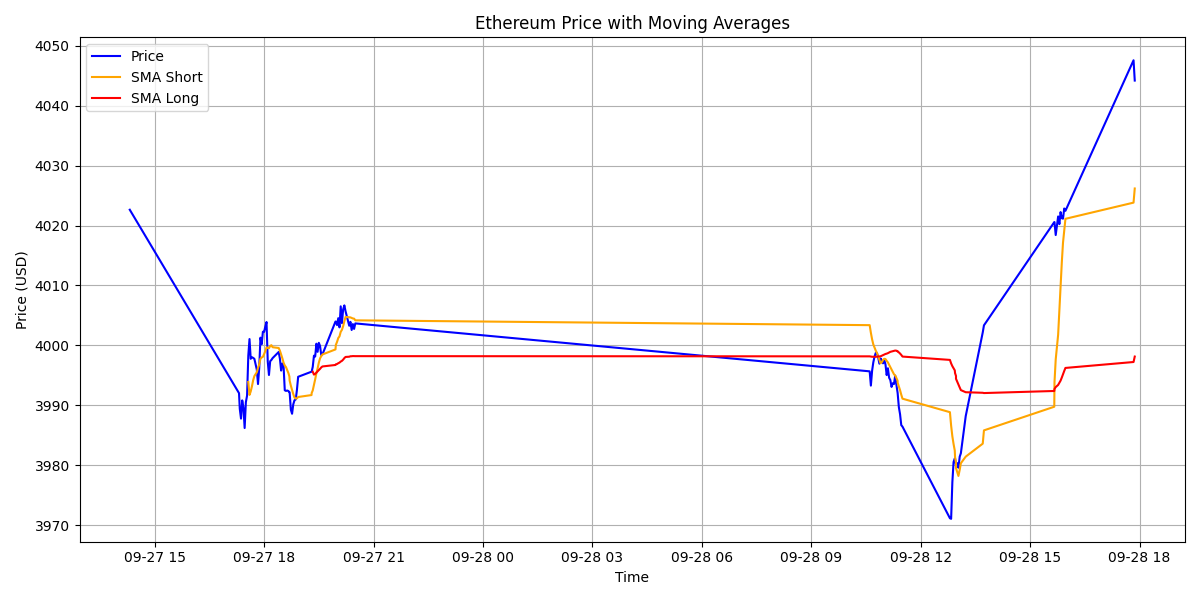
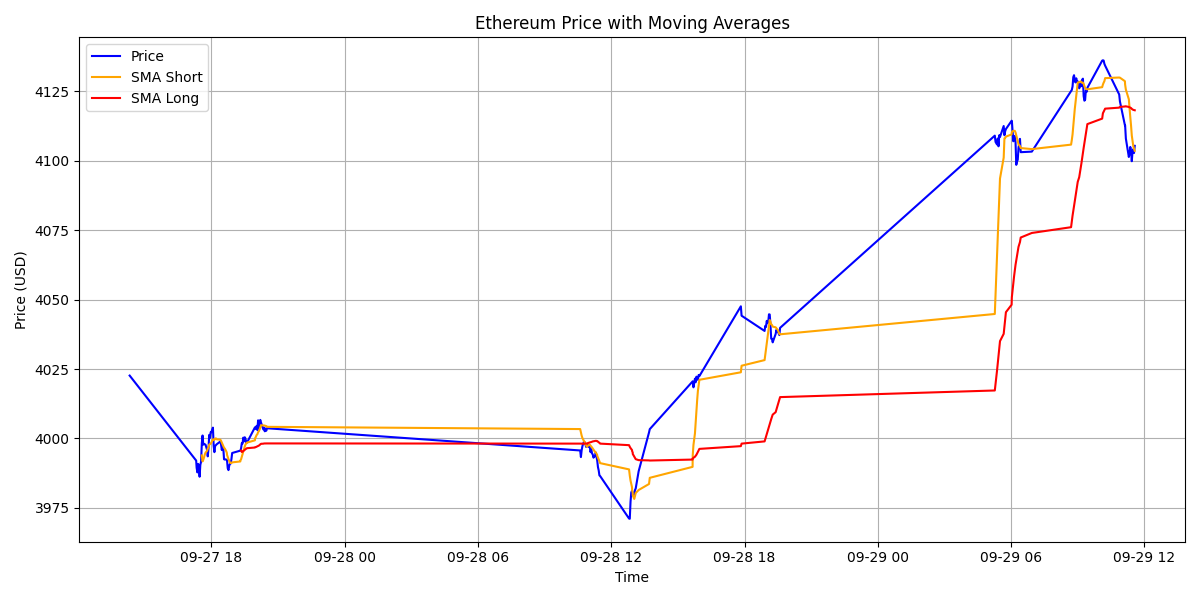
feat: add correlation analysis feature with heatmap and rolling correlation plots

diff --git a/analytics/correlation.py b/analytics/correlation.py
@@ -1,0 +1,86 @@
+import pandas as pd
+import matplotlib.pyplot as plt
+from fetch_data import fetch_latest_records
+import os
+
+def fetch_multi_coin_data(coins, limit=500, interval="2T"):
+    """Fetch last N records for multiple coins and align them by timestamp."""
+    dataframes = []
+    for coin in coins:
+        df = fetch_latest_records(coin, limit=limit)
+        if df is not None:
+            df = df[["timestamp", "price"]].rename(columns={"price": coin})
+            df = df.set_index("timestamp")
+            # Resample to common interval and forward-fill
+            df = df.resample(interval).ffill()
+            dataframes.append(df)
+    if not dataframes:
+        print("⚠ No data fetched for given coins")
+        return None
+    # Outer join, then forward-fill to ensure alignment
+    combined_df = pd.concat(dataframes, axis=1).ffill().dropna()
+    return combined_df
+
+def calculate_correlation(df: pd.DataFrame):
+    """Compute correlation matrix for the given coins."""
+    return df.corr()
+
+def plot_correlation_heatmap(corr_matrix, coins, save=True):
+    """Plot correlation heatmap."""
+    plt.figure(figsize=(6, 5))
+    plt.imshow(corr_matrix, cmap="coolwarm", interpolation="nearest")
+    plt.colorbar(label="Correlation Coefficient")
+    plt.xticks(range(len(coins)), coins, rotation=45)
+    plt.yticks(range(len(coins)), coins)
+    plt.title("Crypto Price Correlation")
+    plt.tight_layout()
+
+    if save:
+        os.makedirs("outputs", exist_ok=True)
+        file_path = "outputs/coin_correlation_heatmap.png"
+        plt.savefig(file_path)
+        print(f"📁 Saved: {file_path}")
+
+    plt.show()
+
+def plot_rolling_correlation(df: pd.DataFrame, pair, window=50, save=True):
+    """Plot rolling correlation between two coins."""
+    coin1, coin2 = pair
+    rolling_corr = df[coin1].rolling(window).corr(df[coin2])
+
+    plt.figure(figsize=(12, 6))
+    plt.plot(df.index, rolling_corr, label=f"{coin1} vs {coin2}")
+    plt.title(f"Rolling Correlation ({coin1} vs {coin2}) - Window={window}")
+    plt.xlabel("Time")
+    plt.ylabel("Correlation")
+    plt.ylim(-1, 1)
+    plt.legend()
+    plt.grid(True)
+    plt.tight_layout()
+
+    if save:
+        os.makedirs("outputs", exist_ok=True)
+        file_path = f"outputs/rolling_corr_{coin1}_{coin2}.png"
+        plt.savefig(file_path)
+        print(f"📁 Saved: {file_path}")
+
+    plt.show()
+
+if __name__ == "__main__":
+    coins = ["bitcoin", "ethereum", "matic-network"]
+    df = fetch_multi_coin_data(coins, limit=500)
+
+    if df is not None:
+        print("\n✅ Sample Combined Data:")
+        print(df.head())
+
+        # Static correlation
+        corr_matrix = calculate_correlation(df)
+        print("\n📊 Correlation Matrix:")
+        print(corr_matrix)
+        plot_correlation_heatmap(corr_matrix, coins)
+
+        # Rolling correlation plots
+        pairs = [("bitcoin", "ethereum"), ("bitcoin", "matic-network"), ("ethereum", "matic-network")]
+        for pair in pairs:
+            plot_rolling_correlation(df, pair, window=50)

diff --git a/analytics/analysis.py b/analytics/analysis.py
@@ -67,7 +67,7 @@ if __name__ == "__main__":
     coins = ["bitcoin", "ethereum", "matic-network"]
 
     for coin in coins:
-        df = fetch_latest_records(coin, limit=200)
+        df = fetch_latest_records(coin, limit=1000)
         if df is not None:
             df = calculate_moving_averages(df)
             df = calculate_volatility(df)
